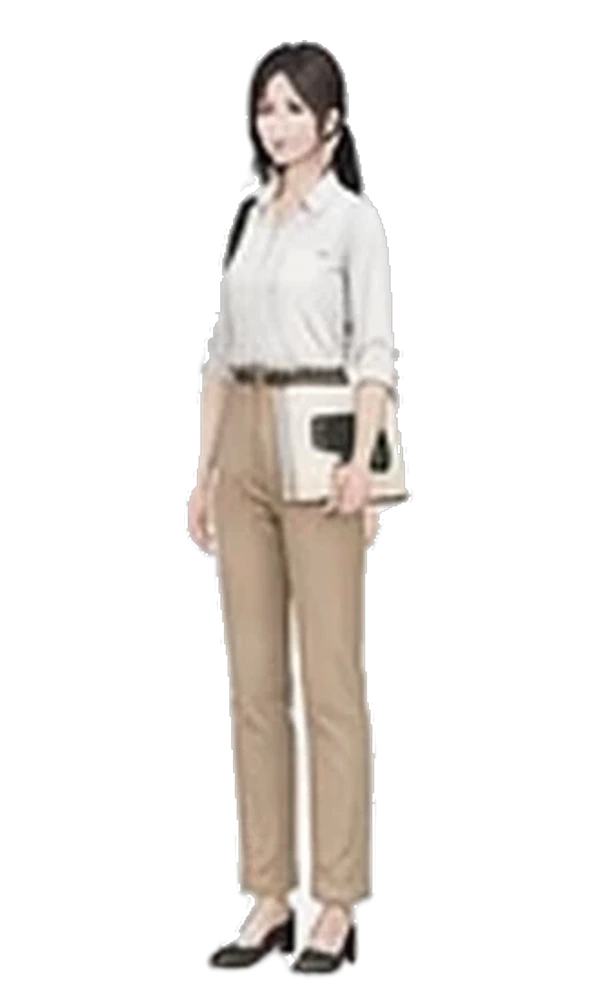
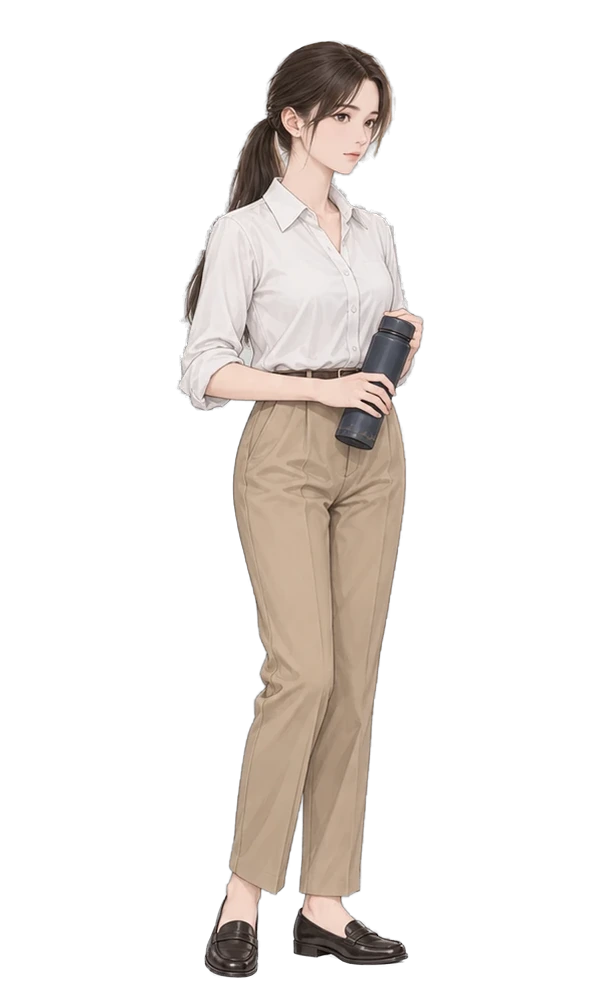
ART-19：學姊對話立繪換成約會圖姿勢①＋7 格表情寫進 assets（BB-B D59 通過）；沛珊、可昕 9 格試疊等 BB-B 驗收；語彤身體偏糊、以安角度不合，建議等正面全身新圖；疊頭腳本修頭髮外圈灰光暈、灰底不均、眼白被挖
Claude-Session: https://claude.ai/code/session_01GV1WG3UeT2DhuDpxeWJsvD

Changed region(s): [[0.3, 0.031, 0.72, 0.992]]

diff --git a/tools/portraits/overlay_expressions.py b/tools/portraits/overlay_expressions.py
@@ -23,6 +23,14 @@ NAMES = ['smile', 'laugh', 'surprised', 'embarrassed', 'annoyed', 'sad', 'seriou
 CFG = {
     'heroine_02': dict(sheet='heroine_02_expr9.webp', cell=(418, 418), body='assets/portraits/heroine_02/campus/neutral.webp',
                        eye=(150, 120, 350, 255), search=(200, 40, 420, 230), scales=(0.44, 0.66), fade=(285, 330), skip=()),
+    'heroine_01': dict(sheet='heroine_01_expr9.webp', cell=(437, 400), body='assets/portraits/heroine_01/campus/neutral.webp',
+                       eye=(140, 150, 290, 240), search=(180, 20, 440, 240), scales=(0.22, 0.55), fade=(300, 335), skip=(), anchor=(110, 5, 330, 120)),
+    'heroine_03': dict(sheet='heroine_03_expr9.webp', cell=(410, 426), body='assets/portraits/heroine_03/campus/neutral.webp',
+                       eye=(140, 160, 295, 250), search=(180, 20, 440, 240), scales=(0.22, 0.55), fade=(305, 340), skip=(), anchor=(110, 5, 330, 130)),
+    'classmate_peishan': dict(sheet='classmate_peishan_expr9.webp', cell=(437, 400), body='assets/portraits/classmate_peishan/campus/neutral.webp',
+                       eye=(160, 150, 330, 235), search=(180, 20, 440, 240), scales=(0.22, 0.55), fade=(290, 325), skip=(), anchor=(120, 5, 350, 120)),
+    'kexin': dict(sheet='kexin_expr9.webp', cell=(437, 400), body='assets/portraits/kexin/campus/neutral.webp',
+                       eye=(165, 120, 310, 200), search=(180, 20, 440, 240), scales=(0.22, 0.55), fade=(255, 290), skip=(), anchor=(130, 5, 350, 100)),
     'heroine_04': dict(sheet='heroine_04_expr9.webp', cell=(512, 341), body='assets/portraits/heroine_04/campus/neutral.webp',
                        eye=(215, 115, 360, 205), search=(200, 20, 420, 230), scales=(0.22, 0.50), fade=(252, 282), skip=(),
                        anchor=(180, 5, 440, 110)),
@@ -116,21 +124,34 @@ def main():
         if ref is None: t = fit(c)
         else:
             d, sc = shift_to(ref[0], c, cf['anchor']); t = dict(ref[1]); t['ccx'] -= d[0]; t['ccy'] -= d[1]; t['score'] = sc
-        al = key_alpha(c, bg)
+        al = key_alpha(c, bg); bgl = bg
+        if cf.get('anchor'):                                              # 灰底不是完全均勻：用「附近的背景色」重新去背、去邊（不然髮絲外緣留一圈灰，紅底上很明顯）
+            from scipy import ndimage as _nd
+            c0 = np.asarray(c).astype(float); m_bg = (al < 0.05).astype(float)
+            num = np.dstack([_nd.gaussian_filter(c0[..., k] * m_bg, 18) for k in range(3)]); den = _nd.gaussian_filter(m_bg, 18)[..., None]
+            bgl = np.where(den > 0.02, num / np.maximum(den, 1e-6), bg)
+            al = np.clip((np.sqrt(((c0 - bgl) ** 2).sum(axis=2)) - 10) / 24, 0, 1)
         if cf.get('anchor'):                                              # 眼白和灰底顏色接近、被當成背景：四周都是人物的小洞（< 600 px）補回不透明（髮絲和脖子中間的大空隙不補）
             from scipy import ndimage as _nd
             m0 = al > 0.5; hl, _n = _nd.label(_nd.binary_fill_holes(m0) & ~m0)
+            lumc = np.asarray(c.convert('L')).astype(float)
             for k, sl in enumerate(_nd.find_objects(hl), 1):
-                if sl is not None and int((hl[sl] == k).sum()) < 600: al = np.where(_nd.binary_dilation(hl == k, iterations=1), 1.0, al)
+                if sl is None or int((hl[sl] == k).sum()) >= 600: continue
+                hk = hl == k; ring = _nd.binary_dilation(hk, iterations=3) & ~hk & (al > 0.9)
+                if ring.any() and lumc[ring].mean() > 100: al = np.where(_nd.binary_dilation(hk, iterations=1), 1.0, al)   # 眼白：周圍是皮膚、睫毛（亮）；髮絲之間的空隙周圍是頭髮（暗）→ 不補
         # 邊緣去灰：半透明的頭髮邊緣混到灰底的顏色 → 還原成頭髮本身的顏色 c = (obs − (1−α)·bg)/α
         cr = np.asarray(c).astype(float); m = (al > 0.02) & (al < 1)
-        cr[m] = np.clip((cr[m] - (1 - al[m])[:, None] * bg) / al[m][:, None], 0, 255)
+        bgm = bgl[m] if np.ndim(bgl) == 3 else bg
+        cr[m] = np.clip((cr[m] - (1 - al[m])[:, None] * bgm) / al[m][:, None], 0, 255)
         # 白點（BB-B 驗收時指出 laugh、serious、tired 左側髮絲外緣）：細髮絲邊緣還帶著淺灰底 → 透明交界 3 px 內、低彩度（灰白）又偏亮的像素拿掉
         # （膚色是暖色、彩度高，右邊的臉頰下巴不會被清到）；再只留最大的一塊（浮在外面的小點）
         from scipy import ndimage
-        band = ndimage.binary_dilation(al < 0.1, iterations=3) & (al > 0)
+        band = ndimage.binary_dilation(al < 0.1, iterations=4 if cf.get('anchor') else 3) & (al > 0)
         sat = cr.max(axis=2) - cr.min(axis=2); lum = cr @ np.array([0.299, 0.587, 0.114])
         al = np.where(band & (sat < 28) & (lum > 115), 0, al)
+        if cf.get('anchor'):                                              # AI 圖在頭髮外面畫了一圈比灰底還亮的光暈（亮、沒有顏色）：和外面連在一起的那一片全部當背景（眼白被睫毛、皮膚包著，不會連到外面）
+            lt = (lum > 140) & (sat < 30); ext = al < 0.1
+            lb, _n = ndimage.label(lt | ext); touch = np.unique(lb[ext]); al = np.where(lt & np.isin(lb, touch[touch > 0]), 0, al)
         lab, n = ndimage.label(al > 0.2)
         if n > 1:
             sz = ndimage.sum(np.ones_like(al), lab, range(1, n + 1)); al = al * ndimage.binary_dilation(lab == 1 + int(np.argmax(sz)), iterations=1)

diff --git a/tools/portraits/cut_reference_portraits.py b/tools/portraits/cut_reference_portraits.py
@@ -22,8 +22,7 @@ SRC = {
     'heroine_02@cafe': ('H:heroine_02_sheet.webp', (322, 0, 480, 538)),         # 圍裙版＝Café 當班（heroine_02/cafe/neutral）
     'heroine_03': ('H:heroine_03_sheet.webp', (320, 0, 462, 532)),
     'heroine_04': ('H:heroine_04_sheet.webp', (320, 0, 472, 532)),
-    'heroine_05': ('H:heroine_05_sheet.webp', (320, 0, 462, 532)),
-    'heroine_05@campus_v2': ('D:heroine_05_date_shirt.webp', (30, 0, 385, 975)),   # 試疊用（BB-B 2026-10-16 建議：學姊對話立繪比照芷若換成約會圖姿勢①，表情頭才對得上；BB-B 驗收前不寫進 assets）
+    'heroine_05': ('D:heroine_05_date_shirt.webp', (30, 0, 385, 975)),          # BB-B 2026-10-16 驗收（D59）：學姊平常（campus）比照芷若改用約會圖姿勢①（表情頭的角度才對得上）；原本的 06 標準圖單人大圖版本（H:heroine_05_sheet.webp (320,0,462,532)）不再用
     'kexin': ('R:kexin.webp', (358, 120, 544, 636)),
     'classmate_peishan': ('R:classmate_peishan.webp', (405, 80, 600, 695)),
     'zhe': ('R:zhe.webp', (572, 8, 800, 714)),
@@ -47,8 +46,8 @@ SRC = {
     'yule': ('R:yule.webp', (18, 368, 180, 810)),
 }
 CW, CH, TOP, FILL = 600, 1000, 0.04, 0.94
-MATTING = {'heroine_05@campus_v2'}                                 # 學姊約會圖：白襯衫和灰底只差 7，一般去背會在髮絲邊留一圈淺灰；alpha matting（pymatting）髮絲乾淨、衣領完整
-PATCH_HOLES = {'heroine_05@campus_v2'}                                     # 學姊約會圖姿勢①：衣領的白色被挖掉
+MATTING = {'heroine_05'}                                 # 學姊約會圖：白襯衫和灰底只差 7，一般去背會在髮絲邊留一圈淺灰；alpha matting（pymatting）髮絲乾淨、衣領完整
+PATCH_HOLES = {'heroine_05'}                                     # 學姊約會圖姿勢①：衣領的白色被挖掉
 HOLES = {'pinyu'}                                                   # BB-B 2026-10-16 D59 退件：曾品妤耳朵高度的白邊、兩腿中間的灰底
 
 
@@ -87,7 +86,7 @@ def main():
     a = ap.parse_args(); only = [s for s in a.only.split(',') if s]
     from rembg import new_session, remove
     sess = {m: new_session(m) for m in ('isnet-anime', 'u2net')}; tiles = []
-    REAL = {'heroine_01', 'heroine_02@cafe', 'heroine_03', 'heroine_04', 'heroine_05', 'kexin'}
+    REAL = {'heroine_01', 'heroine_02@cafe', 'heroine_03', 'heroine_04', 'kexin'}
     for gid, (src, box) in SRC.items():
         if only and gid not in only: continue
         kind, fn = src.split(':', 1); path = os.path.join({'H': HS, 'D': a.date or a.ref}.get(kind, a.ref), fn)

diff --git a/docs/art-rebuild/second_ai/test_shots/expr_art19/README.md b/docs/art-rebuild/second_ai/test_shots/expr_art19/README.md
@@ -1,0 +1,28 @@
+# ART-19 九格表情疊到對話立繪（2026-10-16）｜LAWWW2-B
+
+表情圖來源：BB-B 驗收（D59）過的九格。
+- 子晴、學姊：`d69dd5f6`；
+- 沛珊、可昕：`ad98f813`；
+- 以安、語彤：`488af276`。
+
+腳本：`tools/portraits/overlay_expressions.py --id <id>`，設定在 `CFG`。
+
+| 人物 | 狀態 | 檔案 |
+|---|---|---|
+| 學姊 heroine_05 | **BB-B 通過**，已寫進 `assets/portraits/heroine_05/campus/`：底圖換成約會圖姿勢①（`neutral.webp`）＋ 7 格 smile、laugh、surprised、annoyed、sad、serious、tired。embarrassed、thinking 不用，遊戲自動用 neutral | 試疊紀錄 `../expr_heroine04_05/` |
+| 沛珊 classmate_peishan | **等 BB-B 驗收**：現在的對話立繪，整個頭換掉，9 格 | `classmate_peishan/<表情>.webp`、`classmate_peishan_heads.png`、`classmate_peishan_full.png` |
+| 可昕 kexin | **等 BB-B 驗收**：同上，9 格 | `kexin/<表情>.webp`、`kexin_heads.png`、`kexin_full.png` |
+| 子晴 heroine_04 | **暫停**（BB-B 決定）：等使用者生成正面全身高解析度圖，再一次切底圖＋疊頭；立繪先不換 | `../expr_heroine04_05/` |
+| 語彤 heroine_03 | **對得上，但身體偏糊**（和子晴一樣，是 768 標準圖切的）；建議同子晴，等新的正面全身 | `heroine_03_heads.png`、`heroine_03_full.png`（只是參考，沒有輸出單張） |
+| 以安 heroine_01 | **疊不起來**：現在的對話立繪頭轉向她的左邊，約會圖姿勢①的頭轉向另一邊，都不是正面；九格表情是正面。要正面全身的新圖 | — |
+
+BB-B 驗收通過後，沛珊、可昕的單張直接複製到 `assets/portraits/<id>/campus/`。
+
+## 這一輪修的去背問題（腳本）
+
+- **頭髮外面一圈灰**：AI 圖在頭髮外圍畫了一圈比灰底還亮的光暈。
+  - 改法：「又亮又沒有顏色、而且和外面連在一起」的那一片全部當背景。
+  - 眼白被睫毛、皮膚包著，不會被拿掉。
+- **灰底不均勻**：去背、去邊改用附近的背景色（模糊的背景圖），不再只用一個背景色。
+- **眼白在紅底上變紅**：眼白和灰底顏色接近，原本被挖掉。
+  - 改法：四周是亮色（皮膚）的小洞補回去；四周是頭髮的空隙不補。
